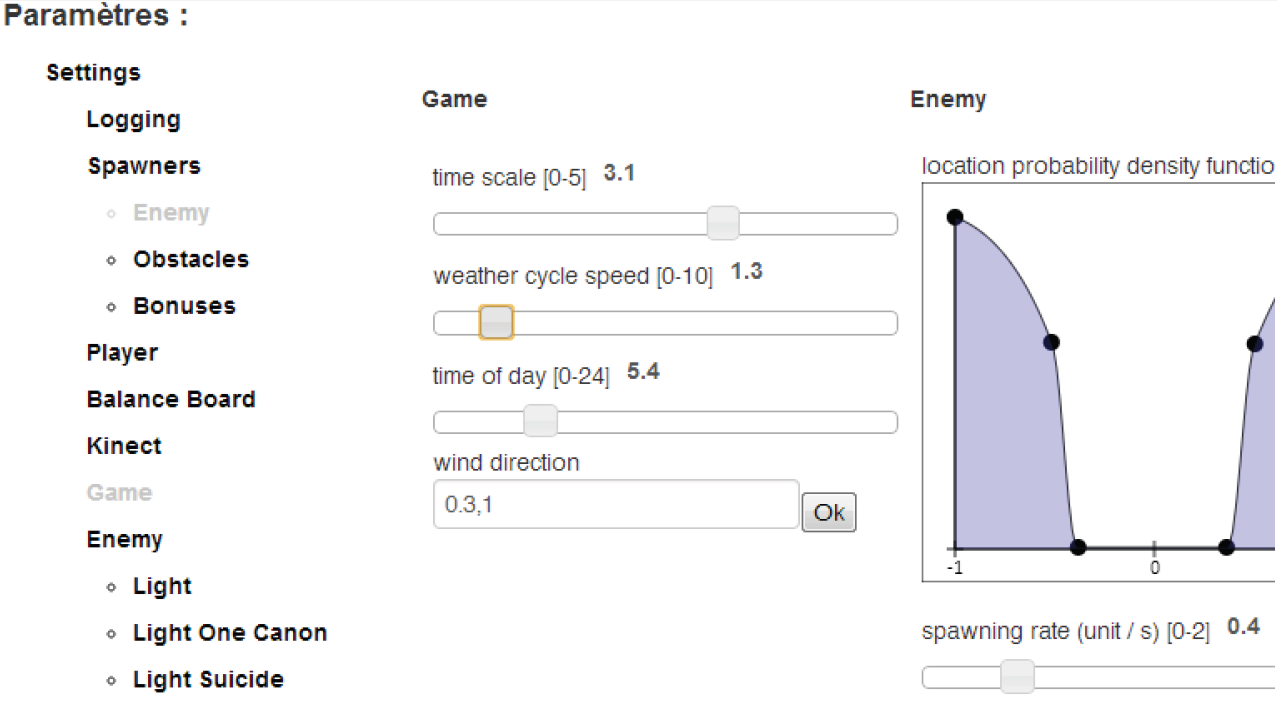
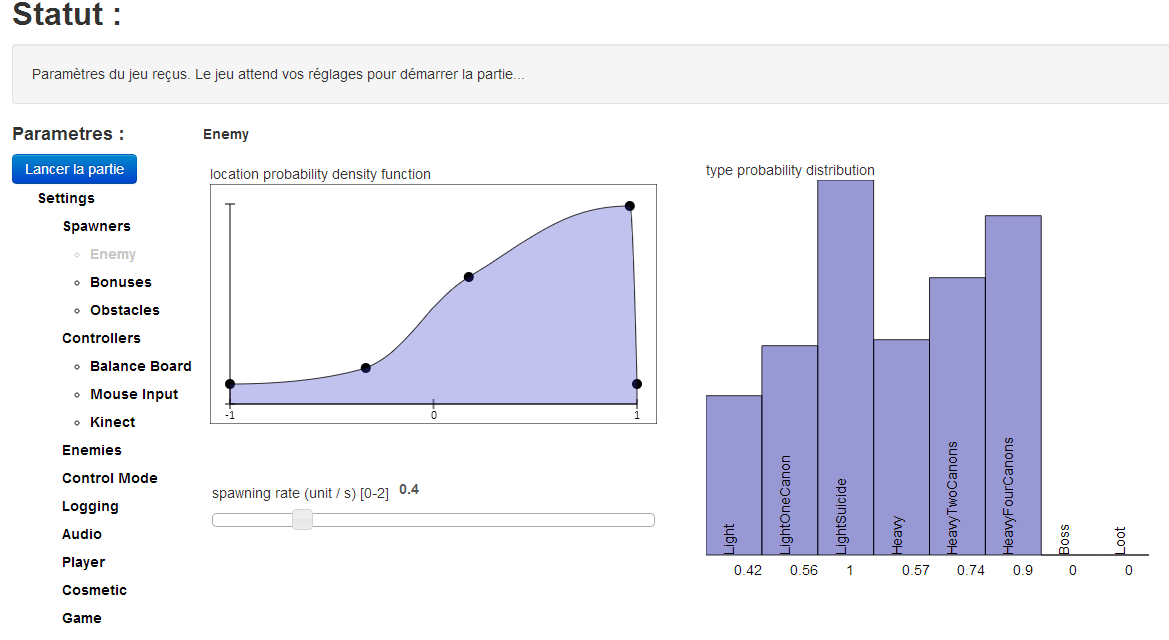
integration d'images pour la partie realisation hammer and planks

diff --git a/chapters/realisation.tex b/chapters/realisation.tex
@@ -8,22 +8,32 @@ Ce projet se divise en deux parties distinctes~:
 \end{enumerate}
 
 	\subsubsection*{Interface thérapeutique}
-Celle-ci permet, à partir d'un terminal distinct, de choisir un jeu et de lancer une partie sur le terminal utilisé par le patient. Ce dernier sera équipé d'un périphérique de contrôle comme la caméra Kinect ou la wii board. A partir de cette interface, le soignant est en mesure de voir et de modifier l'ensemble des paramètres de jeu (en tout cas, le sous-ensemble considéré comme pertinent et effectivement envoyé à l'application). De plus, à la fin d'une partie, il sera capable de visualiser les données de la session de jeu, comme l'apparition d'évènements ou les zones que le joueur a réussi ou non à atteindre. Ces informations sont utiles pour mieux cibler les difficultés du patient et ajuster au mieux les prochaines séances. Cette partie du projet a été réalisée par Andy Camicci durant son stage chez NaturalPad entre Avril et Juin 2013.
+Celle-ci permet, à partir d'un terminal distinct, de choisir un jeu et de lancer une partie sur le terminal utilisé par le patient (voir figure~\ref{interface_accueil}). Ce dernier sera équipé d'un périphérique de contrôle comme la caméra Kinect ou la wii board. A partir de cette interface, le soignant est en mesure de voir (figure~\ref{ensemble_parametres}) et de modifier(figure~\ref{interface_parametres}) l'ensemble des paramètres de jeu (en tout cas, le sous-ensemble considéré comme pertinent et effectivement envoyé à l'application). 
 
-\begin{figure}[h!]
-   \begin{minipage}[b]{0.49\linewidth}
-		\centering 
-		\includegraphics[width=8cm, height=6cm]{images/interface_parametres.png}
-		\caption{Modification des valeurs du jeu dans l'interface thérapeutique}
-		\label{interface_therapeutique_01}
-   \end{minipage}\hfill
-   \begin{minipage}[b]{0.49\linewidth}   
+
+\begin{figure}[!hbtp]
+	\begin{minipage}{0.5\linewidth}	
 		\centering
-		\includegraphics[width=8cm, height=6cm]{images/interface_recap.png}
-		\caption{Visualisation des données de la partie dans l'interface.}
-		\label{interface_therapeutique_02}
-   \end{minipage}
+		\includegraphics[width=7.5cm, height=5cm]{images/interface_accueil.png}
+		\caption{Page de l'interface au lancement d'une partie de H\&P }
+		\label{interface_accueil}
+	\end{minipage}	
+	\begin{minipage}{0.5\linewidth}	
+		\centering
+		\includegraphics[width=7.5cm, height=5cm]{images/interface_parametres.png}
+		\caption{Modifications de valeurs des paramètres du jeu H\&P}
+		\label{interface_parametres}
+	\end{minipage}
 \end{figure}
+\paragraph{} De plus, à la fin d'une partie, il sera capable de visualiser les données de la session de jeu (voir figure~\ref{interface_recap}), comme l'apparition d'évènements ou les zones que le joueur a réussi ou non à atteindre. Ces informations sont utiles pour mieux cibler les difficultés du patient et ajuster au mieux les prochaines séances. Cette partie du projet a été réalisée par Andy Camicci durant son stage chez NaturalPad entre Avril et Juin 2013.
+\begin{figure}[!hbtp]
+	\centering
+		\includegraphics[width=8cm]{images/interface_recap.png}
+		\caption{Récapitulatif d'une session de jeu H\&P}
+		\label{interface_recap}
+\end{figure}
+
+
 	\subsubsection*{Maitriser la difficulté : le paramétrage des variables de jeu}
 Cette partie consiste en l'extraction des paramètres de jeux et en la création d'un système permettant de créer, d'enregistrer et de transmettre des configurations de ces attributs à l'interface thérapeutique.
 
@@ -31,10 +41,24 @@ Cette partie consiste en l'extraction des paramètres de jeux et en la création
 \emph{Hammer \& Planks} est développé avec le moteur de jeu Unity3d et les scripts codés avec le langage de programmation C\#. Comme nous l'avons dit, \emph{H\&P} possède de nombreux contenus contribuant à la richesse du gameplay et aux possibilités d'ajustement. Lors de mon arrivée au sein de NaturalPad, ces objets n'étaient cependant pas ajustables facilement : il fallait rechercher l'ensemble des objets dont on souhaitait modifier un paramètre, trouver les variables correspondant à ces paramètres puis les modifier soit directement dans le code soit par l'intermédiaire de l'éditeur d'Unity. La raison en est que les contraintes de développement du jeu n'ont pas permis de découpler ces informations.
 
 \paragraph{}
-Mon premier travail a donc été de découvrir le code et de rechercher toutes les variables dont on souhaiterait potentiellement vouloir modifier la valeur dans un contexte d'ajustement du jeu pour un exercice de rééducation. J'ai ensuite créé une classe spécifique permettant de regrouper conceptuellement les données modifiables. J'ai ainsi regroupé ces données dans des thèmes tels que \emph{réseau}, \emph{ennemis}, \emph{joueur}, \emph{contrôles} ou \emph{cosmétiques}.
+Mon premier travail a donc été de découvrir le code et de rechercher toutes les variables dont on souhaiterait potentiellement vouloir modifier la valeur dans un contexte d'ajustement du jeu pour un exercice de rééducation. J'ai ensuite créé une classe spécifique permettant de regrouper conceptuellement les données modifiables. J'ai ainsi regroupé ces données dans des thèmes tels que \emph{réseau}, \emph{ennemis}, \emph{joueur}, \emph{contrôles} ou \emph{cosmétiques} (figure~\ref{ensemble_parametres}).
+\begin{figure}[!hbtp]
+	\centering
+	\includegraphics[width=14cm, height=8cm]{images/ensemble_parametres.png}
+	\caption{Visualisation des groupes de paramètres dans l'interface web}
+	\label{ensemble_parametres}
+\end{figure}
 
 \paragraph{}
-En parallèle, j'ai aussi procédé au refactoring de l'ensemble des classes possédant ou utilisant un ou plusieurs attributs modifiables. L'intérêt était bien sur d'avoir un accès commun unique à ces valeurs, mais aussi et surtout que les valeurs puissent être modifiées de manière extérieure par l'interface thérapeutique. Par ailleurs, la modification de ces valeurs par l'interface devait être certaine et pérenne, afin que les modifications apportées soit effectivement prises en compte par l'application et donc modifier l'expérience de jeu en direct.
+En parallèle, j'ai aussi procédé au refactoring de l'ensemble des classes possédant ou utilisant un ou plusieurs attributs modifiables. L'intérêt était bien sur d'avoir un accès commun unique à ces valeurs, mais aussi et surtout que les valeurs puissent être modifiées de manière extérieure par l'interface thérapeutique. On peut voir le lien entre la modification des valeurs des paramètres dans l'interface thérapeute et les éléments du jeu en figure~\ref{comparatif_interface_rochers}. Par ailleurs, la modification de ces valeurs par l'interface devait être certaine et pérenne, afin que les modifications apportées soit effectivement prises en compte par l'application et donc modifier l'expérience de jeu en direct.
+
+\begin{figure}[!hbtp]
+	\centering
+	\includegraphics[width=16cm]{images/comparatif_interface_rochers.png}
+	\caption{Interface thérapeutique et écran du jeu hammer \& Planks}
+\emph{	On voit que le thérapeute a changé la fonction de localisation des rochers dans l'interface, et que cela s'applique dans le jeu. Le patient est ainsi contraint de se diriger sur sa droite, l'incitant à faire travailler son coté hémiplégique.}
+	\label{comparatif_interface_rochers}
+\end{figure}
 
 	\subsubsection*{Préparer l'évolution du jeu et de la séance}
 Si permettre un ajustement en direct des propriétés du jeu par le soignant était une fonctionnalité que nous voulions impérativement mettre en place, celle-ci peut se révéler contraignante et répétitive si elle est utilisée seule. Nous voulions aussi enregistrer des configurations de paramètres, afin de pouvoir passer de l'une à l'autre aisément sans devoir faire chaque modification séparément. Par ailleurs, cela permet d'envisager beaucoup de possibilités comme la personnalisation de configurations pour des patients, l'adaptation aisée du jeu pour des besoins thérapeutiques différents ou encore l'automatisation d'une progression de la difficulté à l'aide de configuration prédéfinies.
@@ -50,7 +74,7 @@ Les premières choses marquantes sont la curiosité et l'enthousiasme général 
 \begin{figure}[hbt]
 	\centering
 	\includegraphics[height=11cm]{images/test_lapeyronie.png}
-	\caption{Séance de test du jeu Hammer \& Planks au centre hospitaler de Lapeyronie}
+	\caption{Séance de test du jeu Hammer \& Planks au centre hospitalier de Lapeyronie}
 	\label{test_lapeyronie}
 \end{figure}
 \paragraph{} 
@@ -67,11 +91,8 @@ Enfin, réaliser des tests pendant une demie-journée nous a aussi permis de jug
 Concernant les paramètres enfin, nous avons modifié les valeurs par défaut de certains et ajusté les bornes min et max des plages de valeurs.
 
 		
-	\paragraph{TODO} Nous avons ensuite réalisé une nouvelle séance de tests du jeu intégrant ces modifications. C'est avec plaisir que nous avons constaté que les réponses apportées étaient pertinentes et plaisaient à nos testeurs. Ce fut aussi l'occasion d'avoir de nouveaux retours et de continuer notre processus de conception participative.
+	\paragraph{} Nous avons ensuite réalisé une nouvelle séance de tests du jeu intégrant ces modifications. C'est avec plaisir que nous avons constaté que les réponses apportées étaient pertinentes et plaisaient à nos testeurs. Ce fut aussi l'occasion d'avoir de nouveaux retours et de continuer notre processus de conception participative.
 	
-\paragraph{montrer un aperçu des valeurs modifiables?} et leur utilité d'un point de vue
-ajustement et rééduc. Et peut être aussi des images sur le thème "avant/après" pour montrer l'évolution et l'intéret des test en situation.
-
 	\subsubsection*{Conclusion}
 	Cette expérience et ce travail sur \emph{Hammer \& Planks} m'ont permis de vérifier l'intérêt et la réelle pertinence de jeux sérieux pour la rééducation. Par ailleurs, l'intégration d'un nouveau périphérique, la Kinect, débloquant de nouveaux gameplay avec un système de jeu identique, m'a confirmé l'importance du moyen de contrôle à la fois sur le gameplay mais aussi et surtout sur la richesse des applications thérapeutiques qui en découlent. Enfin, les critiques des soignants et des patients au cours des deux séances de tests m'ont assuré de l'importance et du réel intérêt de pouvoir ajuster manuellement les variables de jeux directement pendant la séance. C'est à la fois très gratifiant pour notre travail et très encourageant pour les possibilités en terme de réhabilitation.
 	

diff --git a/chapters/perspectives.tex b/chapters/perspectives.tex
@@ -1,10 +1,34 @@
-	hammer and planks : (paramètres de difficulté, groupe d'ennemisn GAMEPLAY ASYMETRIQUE)\newline
+	\subsection{\emph{Hammer \& Planks}, un serious game modulable}
+Le projet \emph{Hammer \& Planks} fut une composante forte de mon stage. Il m'a servi de terrain d'expérimentation des différentes idées inspirées par les connaissances acquises au cours de ces six mois. J'ai ainsi travaillé aussi bien sur la version thérapeutique que sur la version grand public, dont les enjeux sont différents. C'est aussi un projet mettant un place un système d'ajustement des paramètres, permettant d'adapter sa difficulté et les mouvements des joueurs.
+
+	\paragraph{}Par rapport à ce qui est déjà mis en place dans le jeu, il est possible d'imaginer de nouvelles fonctionnalités. Une approche à laquelle nous réfléchissons actuellement est la mise en place d'un \textbf{gameplay asymétrique}. \\
+Cette proposition trouve son intérêt à la fois dans la version grand public et la version thérapeutique. L'idée est de permettre à un second joueur de participer à l'expérience de jeu en utilisant un périphérique tiers : tablette ou smartphone. Ce joueur pourrait par exemple incarner le vent pour aider ou perturber la navigation du joueur principal, jouer le rôle d'un membre de l'équipage pour donner des bonus ou encore se poser comme concurrent. 
+
+\paragraph{}De manière générale, l'objectif est de permettre une interaction entre les joueurs et d'enrichir l'expérience globale de jeu. Nous avons vu dans notre background l'intérêt et la volonté des patients en rééducation de pouvoir partager des activités avec leurs proches.
+
+\paragraph{} Une dernière proposition de fonctionnalité pour ajuster le niveau de difficulté, concerne la gestion des ennemis. Actuellement, le système offre la possibilité de régler la fréquence d'apparition des ennemis, ainsi que la densité de répartition des différents types d'ennemis, comme le montre la figure~\ref{interface_ennemis}. \\
+Afin d'apporter plus de finesse au système, je propose la possibilité de créer des bataillons d'ennemis. On pourrait alors par exemple définir la taille maximale d'un bataillon (nombre d'unités en son sein), le type des unités le composant ou encore un schéma de patrouille. De manière plus globale, il serait possible de préciser le nombre maximum de bataillons simultanés ou le temps d'apparition entre deux bataillons. Cela laisserait la possibilité pour le joueur, le designer ou le thérapeute d'établir de nouvelles stratégies. 
+
+	\subsection{Proposer un système de paramètres prédéfinis}
+Afin d'enrichir le système d'ajustement de la difficulté de \emph{Hammer \& Planks}, on pourrait proposer quelques configurations prédéfinies de paramètres, comme il se fait classiquement dans les jeux vidéo. Dans la version grand public, cela se traduirait par la proposition de plusieurs niveaux de difficulté ("facile", "moyen", "difficile").
+
+\paragraph{}
+La proposition est particulièrement intéressante pour la version santé du jeu, notamment couplée avec l'interface thérapeutique. \\
+Il serait en effet beaucoup plus ergonomique et intuitif pour les thérapeutes de pouvoir directement choisir des ensembles de valeurs de paramètres dont l'application correspondrait à un objectif thérapeutique. Par exemple, plutôt que de devoir modifié manuellement tous les paramètres ayant un impact l'utilisation du bras gauche du joueur-patient, il lui suffirait de choisir l'ensemble prédéfini correspondant. On peut aussi parler de meta-paramètres.
+
+\paragraph{} Bien sur, plusieurs ensemble pourraient correspondre aux mêmes besoins. Enfin, afin de permettre une adaptation la plus complète possible, il faudrait laisser la possibilité aux soignants de créer ou de modifier eux-mêmes ce type de configurations. Cela permettrait de faciliter l'utilisation de la plateforme et des jeux par les thérapeutes.
+
+\paragraph{} Dans le cadre plus spécifique de l'adaptation aux besoins thérapeutiques, il est aussi envisageable de créer plusieurs modes de jeu spécifiques ou ajouter de nouvelles possibilités dans l'interface thérapeutiques. Par exemple, si l'on cherche à faire réaliser par le joueur-patient un certain schéma moteur (suite de modifications de son centre de gravité par exemple), il serait pratique pour le thérapeute de créer à la volée le parcours du jeu incitant le joueur à réaliser un tel schéma.
+
+
+	\subsection{Proposer un système de recommandation}
+Comme nous l'avons vu dans la partie~\ref{recommandation}	avoir une information de profil pour cibler la difficulté -> nourrir un systeme de recommandation\\
+	-ajustement dynamique de la difficulté selon le profil/résultats du joueur(parametrisation initiale, en VS a l'adaptation dynamique)
 	
-	-avoir une information de profil pour cibler la difficulté -> nourrir un systeme de recommandation\\
-	-ajustement dynamique de la difficulté selon le profil/résultats du joueur\newline
+	\subsection{Étendre et éprouver la méthodologie de conception}
 	-étendre le domaine de la méthodologie à d'autre pathologies et matériels\newline
 	-éprouver les propositions de méthodo, sur un cas concret et complet\newline
-	-permettre un paramétrage par objectifs non par paramètres permettant de faciliter l'utilisation de la plateforme et des jeux par les thérapeutes \newline
+	
 	- Le pb c'est que j'ai rien qui dise clairement "pour tel exercice/objectif, fais plutot ce type de jeu avec tels contrôles. Du coup, est-ce que ca pourrait pas être une forme de perspective? disant que ça nécessiterait du travail et serait moins parfait qu'un truc personnalisé, mais ca permettrait de gagner du temps tout en étant mieux que ce qui existe actuellement
 	A l'inverse, la démarche que j'ai emprunté dans ma méthode semble mieux coller aux besoins, mais nécessite plus de travail.
  

diff --git a/chapters/background/recommandation.tex b/chapters/background/recommandation.tex
@@ -1,4 +1,4 @@
-	\subsection{Système de recommandation}	
+	\subsection{Système de recommandation}	 \label{recommandation}
 Les systèmes de recommandation représentent les préférences de l'utilisateur dans le but de proposer des articles à acheter ou à examiner notamment. Dans notre problématique, un système de recommandation pourrait servir à sélectionner les paramètres de jeux, voir le jeu lui même, qui correspondraient le mieux aux besoins du joueur. Rappelons que ces besoins peuvent être soit explicites, notamment à travers les recommandations et exigences du thérapeute, soit plus inconscients. Ces besoins inconscients représentent pas exemple les préférences du joueur-patient en terme de gameplay. Un jeu plus distrayant et motivant pour le patient renforcera son implication dans le programme de réhabilitation, et donc son rétablissement. Pour cela il faut donc à la fois connaître les préférences du patient, explicites ou `découvertes'  grâce à un système d'apprentissage par exemple, mais aussi s'appuyer sur un certain nombre de théories et connaissances que l'on sait efficaces pour renforcer cette immersion. 	
 	 
  \paragraph{}
